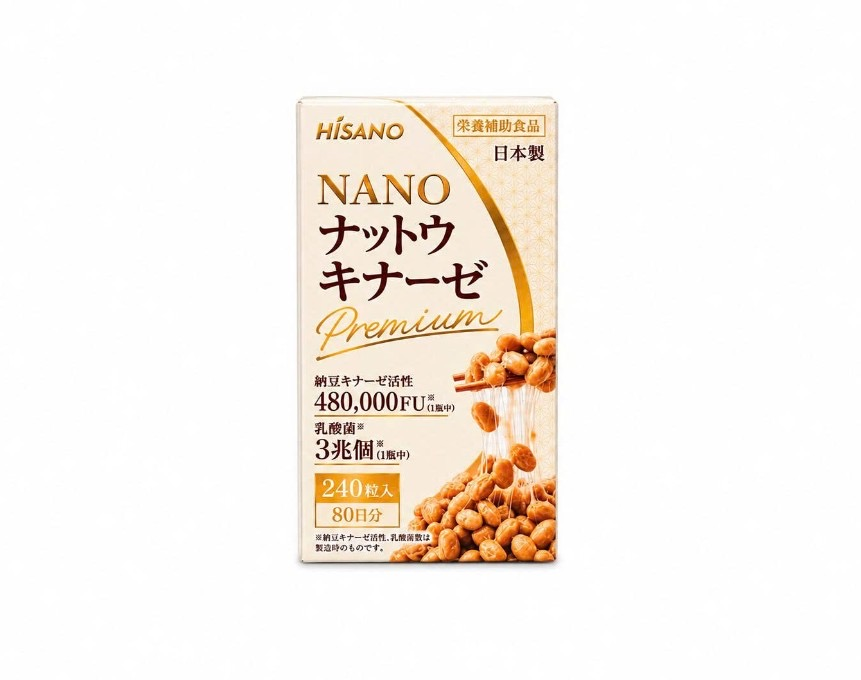
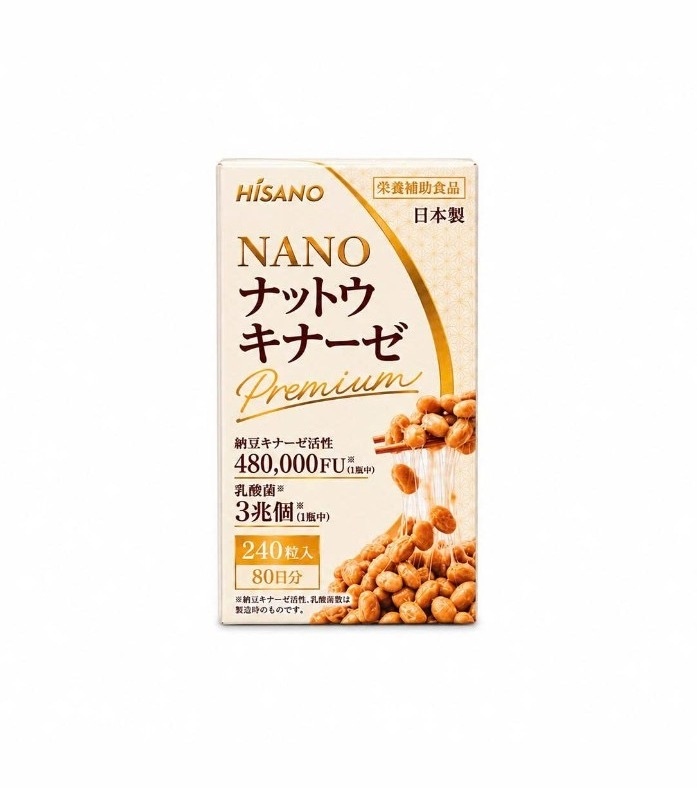
Crop the ナットウキナーゼ Premium box photo to match the other products
Claude-Session: https://claude.ai/code/session_014foMBwx8cPVsuS4SeDU2eM

Changed region(s): [[0.3013, 0.1235, 0.693, 0.8338]]

diff --git a/src/content/productDetails.ts b/src/content/productDetails.ts
@@ -25,8 +25,8 @@ export const productDetails: ProductDetail[] = [
     "price": "",
     "image": {
       "src": "/images/nattokinase-premium/box.jpg",
-      "w": 861,
-      "h": 680
+      "w": 697,
+      "h": 788
     },
     "summary": "HISANO NANOナットウキナーゼ Premiumは、ナットウキナーゼと乳酸菌を配合した日本製の栄養補助食品です。耐酸性のハードカプセルで、毎日手軽にお召し上がりいただけます。",
     "blocks": [

diff --git a/src/content/productDetails.en.ts b/src/content/productDetails.en.ts
@@ -10,8 +10,8 @@ export const productDetailsEn: ProductDetail[] = [
     "price": "",
     "image": {
       "src": "/images/nattokinase-premium/box.jpg",
-      "w": 861,
-      "h": 680
+      "w": 697,
+      "h": 788
     },
     "summary": "HISANO NANO Nattokinase Premium is a Japanese-made dietary supplement containing nattokinase and lactic acid bacteria, in acid-resistant hard capsules that are easy to take every day.",
     "blocks": [
